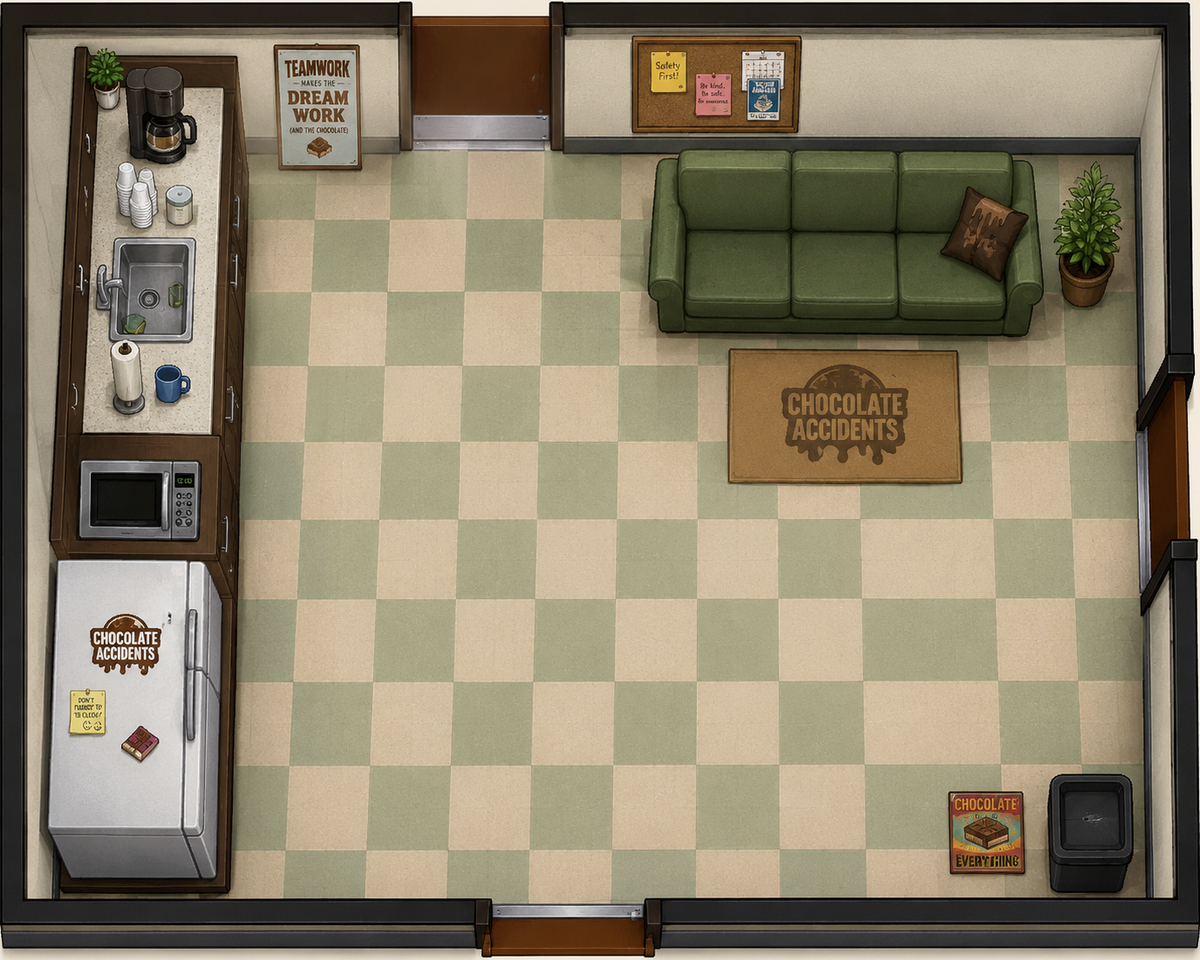
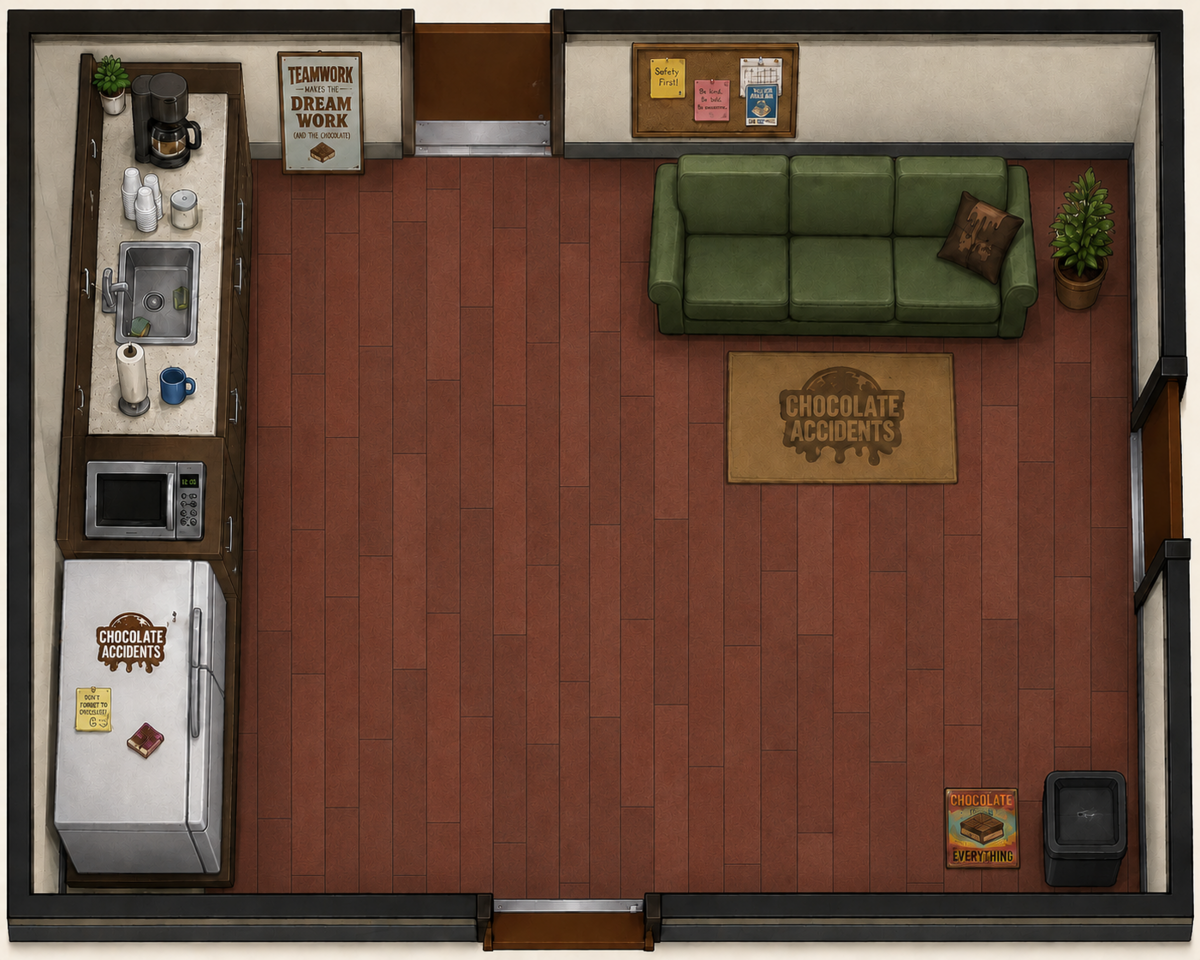
Add files via upload

diff --git a/index.html b/index.html
@@ -3,7 +3,7 @@
 <head>
 <meta charset="utf-8" />
 <meta name="viewport" content="width=device-width,initial-scale=1,maximum-scale=1,user-scalable=no" />
-<title>Chocolate Accidents — V3.10.3</title>
+<title>Chocolate Accidents — V3.10.4</title>
 <style>
 :root{--cream:#fff5e5;--brown:#27180f;--accent:#ffc35c;--danger:#ff6258;--green:#69d18f}
 *{box-sizing:border-box}html,body{margin:0;height:100%;overflow:hidden;background:#100c09;color:var(--cream);font-family:Inter,system-ui,Segoe UI,Arial,sans-serif}
@@ -38,9 +38,9 @@
 </style>
 </head>
 <body><div id="app">
-<div class="topbar"><div class="brand">🍫 <span>Chocolate Accidents</span> <small>V3.10.3</small></div><div class="progress-wrap"><div class="stat">SHIFT</div><div class="bar"><div class="fill" id="shiftFill"></div></div><div class="stat" id="taskCount">0/11</div></div><div class="pill" id="bossStatus">RENEE: PATROLLING</div><button id="mapBtn">Map (M)</button><button id="restartBtn">Restart</button></div>
+<div class="topbar"><div class="brand">🍫 <span>Chocolate Accidents</span> <small>V3.10.4</small></div><div class="progress-wrap"><div class="stat">SHIFT</div><div class="bar"><div class="fill" id="shiftFill"></div></div><div class="stat" id="taskCount">0/11</div></div><div class="pill" id="bossStatus">RENEE: PATROLLING</div><button id="mapBtn">Map (M)</button><button id="restartBtn">Restart</button></div>
 <div class="stage" id="stage"><canvas id="game"></canvas><div class="roomToast" id="roomToast"></div><div class="hint" id="hint">Use the doors to move between rooms.</div><div class="controls"><button id="interactBtn">Interact (E)</button><button id="hideBtn">Hide (Space)</button><button id="sprintBtn">Sprint (Shift)</button></div><div id="mobilePad"><button class="up" data-key="ArrowUp">▲</button><button class="left" data-key="ArrowLeft">◀</button><button class="down" data-key="ArrowDown">▼</button><button class="right" data-key="ArrowRight">▶</button></div>
-<div class="overlay show" id="startOverlay"><div class="card"><h1>Chocolate Accidents — V3.10.3</h1><p class="sub">Eleven jobs are scattered around the factory. Follow the task list, use E at yellow task markers, and finish the shift while the boss keeps roaming.</p><div class="row"><div><b>Move</b><br><span class="small">WASD / arrows</span></div><div><b>Interact</b><br><span class="small">E</span></div><div><b>Hide</b><br><span class="small">Space</span></div><div><b>Map</b><br><span class="small">M</span></div></div><p class="small">Yellow markers are tasks. Get close and press E to start a mini-game. Renee keeps roaming while you work, so hiding or abandoning a task may save you.</p><button id="startBtn" style="width:100%;margin-top:12px;padding:12px">Clock In</button></div></div>
+<div class="overlay show" id="startOverlay"><div class="card"><h1>Chocolate Accidents — V3.10.4</h1><p class="sub">Eleven jobs are scattered around the factory. Follow the task list, use E at yellow task markers, and finish the shift while the boss keeps roaming.</p><div class="row"><div><b>Move</b><br><span class="small">WASD / arrows</span></div><div><b>Interact</b><br><span class="small">E</span></div><div><b>Hide</b><br><span class="small">Space</span></div><div><b>Map</b><br><span class="small">M</span></div></div><p class="small">Yellow markers are tasks. Get close and press E to start a mini-game. Renee keeps roaming while you work, so hiding or abandoning a task may save you.</p><button id="startBtn" style="width:100%;margin-top:12px;padding:12px">Clock In</button></div></div>
 <div class="overlay" id="taskOverlay"><div class="card"><h2 id="taskTitle">Task</h2><p class="sub" id="taskDesc"></p><div class="taskArea">
         <div class="bar miniBar" id="miniBar">
           <div class="scanZone" id="scanZone"></div>
@@ -106,11 +106,11 @@ const furniture=[
  // Warehouse A/B shelving stays against the perimeter.
  {x:1380,y:80,w:64,h:180,solid:true},{x:1515,y:82,w:150,h:46,solid:true},{x:1515,y:285,w:150,h:46,solid:true},
  {x:1380,y:445,w:70,h:145,solid:true},{x:1540,y:450,w:135,h:46,solid:true},{x:1540,y:645,w:135,h:46,solid:true},
- // Chocolate Storage V3.10.3: perimeter racks leave a broad cross-shaped travel lane through every doorway.
+ // Chocolate Storage V3.10.4: perimeter racks leave a broad cross-shaped travel lane through every doorway.
  {x:985,y:785,w:48,h:165,solid:true},
  {x:1215,y:690,w:78,h:42,solid:true},{x:1215,y:790,w:78,h:42,solid:true},{x:1215,y:970,w:78,h:42,solid:true},
  {x:1080,y:970,w:78,h:42,solid:true},
- // Break Room V3.10.3 artwork collisions. These are invisible and aligned to the finished room art.
+ // Break Room V3.10.4 artwork collisions. These are invisible and aligned to the finished room art.
  // Left kitchenette / microwave / fridge stack.
  {x:43,y:637,w:58,h:205,solid:true,draw:false,room:'break'},
  // Couch in the upper-right. It stays above the right-side doorway lane.
@@ -119,7 +119,7 @@ const furniture=[
  {x:312,y:658,w:20,h:42,solid:true,draw:false,room:'break'},
  // Trash can in lower-right corner.
  {x:303,y:817,w:28,h:28,solid:true,draw:false,room:'break'},
- // Reception V3.10.3 artwork collisions.
+ // Reception V3.10.4 artwork collisions.
  {x:72,y:885,w:105,h:82,solid:true,draw:false,room:'reception'}, // reception desk
  {x:285,y:878,w:140,h:38,solid:true,draw:false,room:'reception'}, // long narrow couch
  {x:328,y:986,w:70,h:30,solid:true,draw:false,room:'reception'}, // sign-in table
